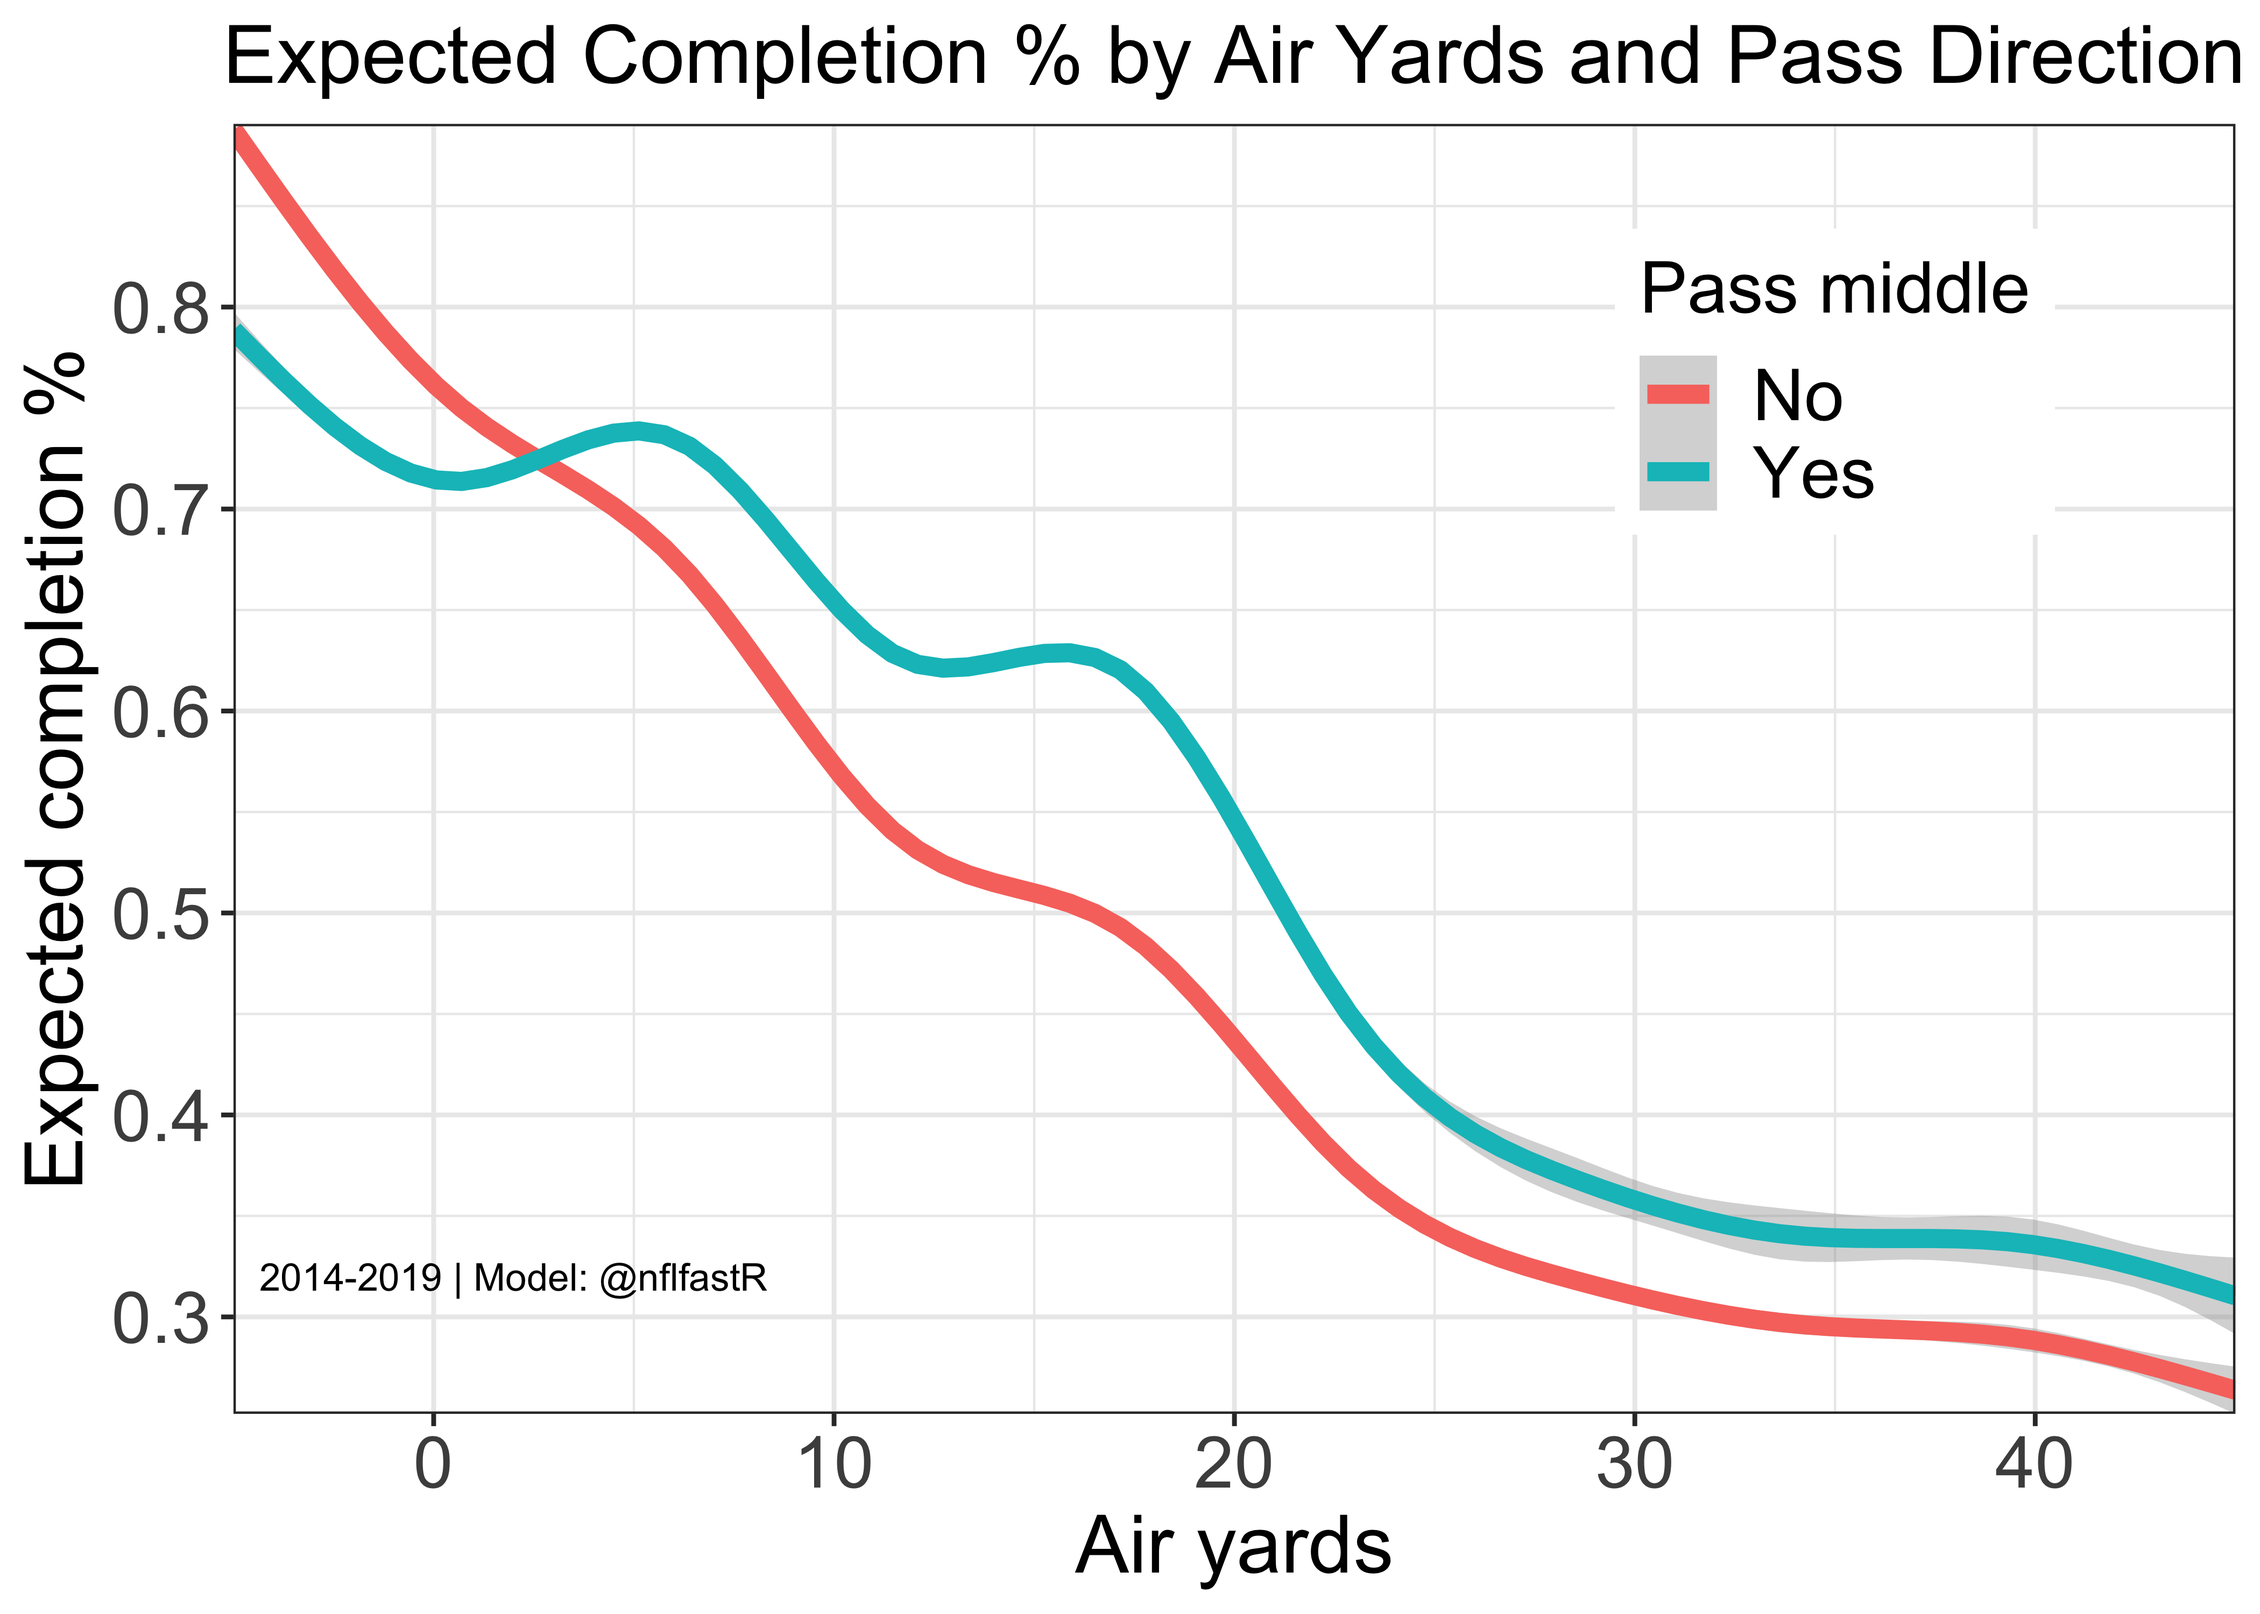
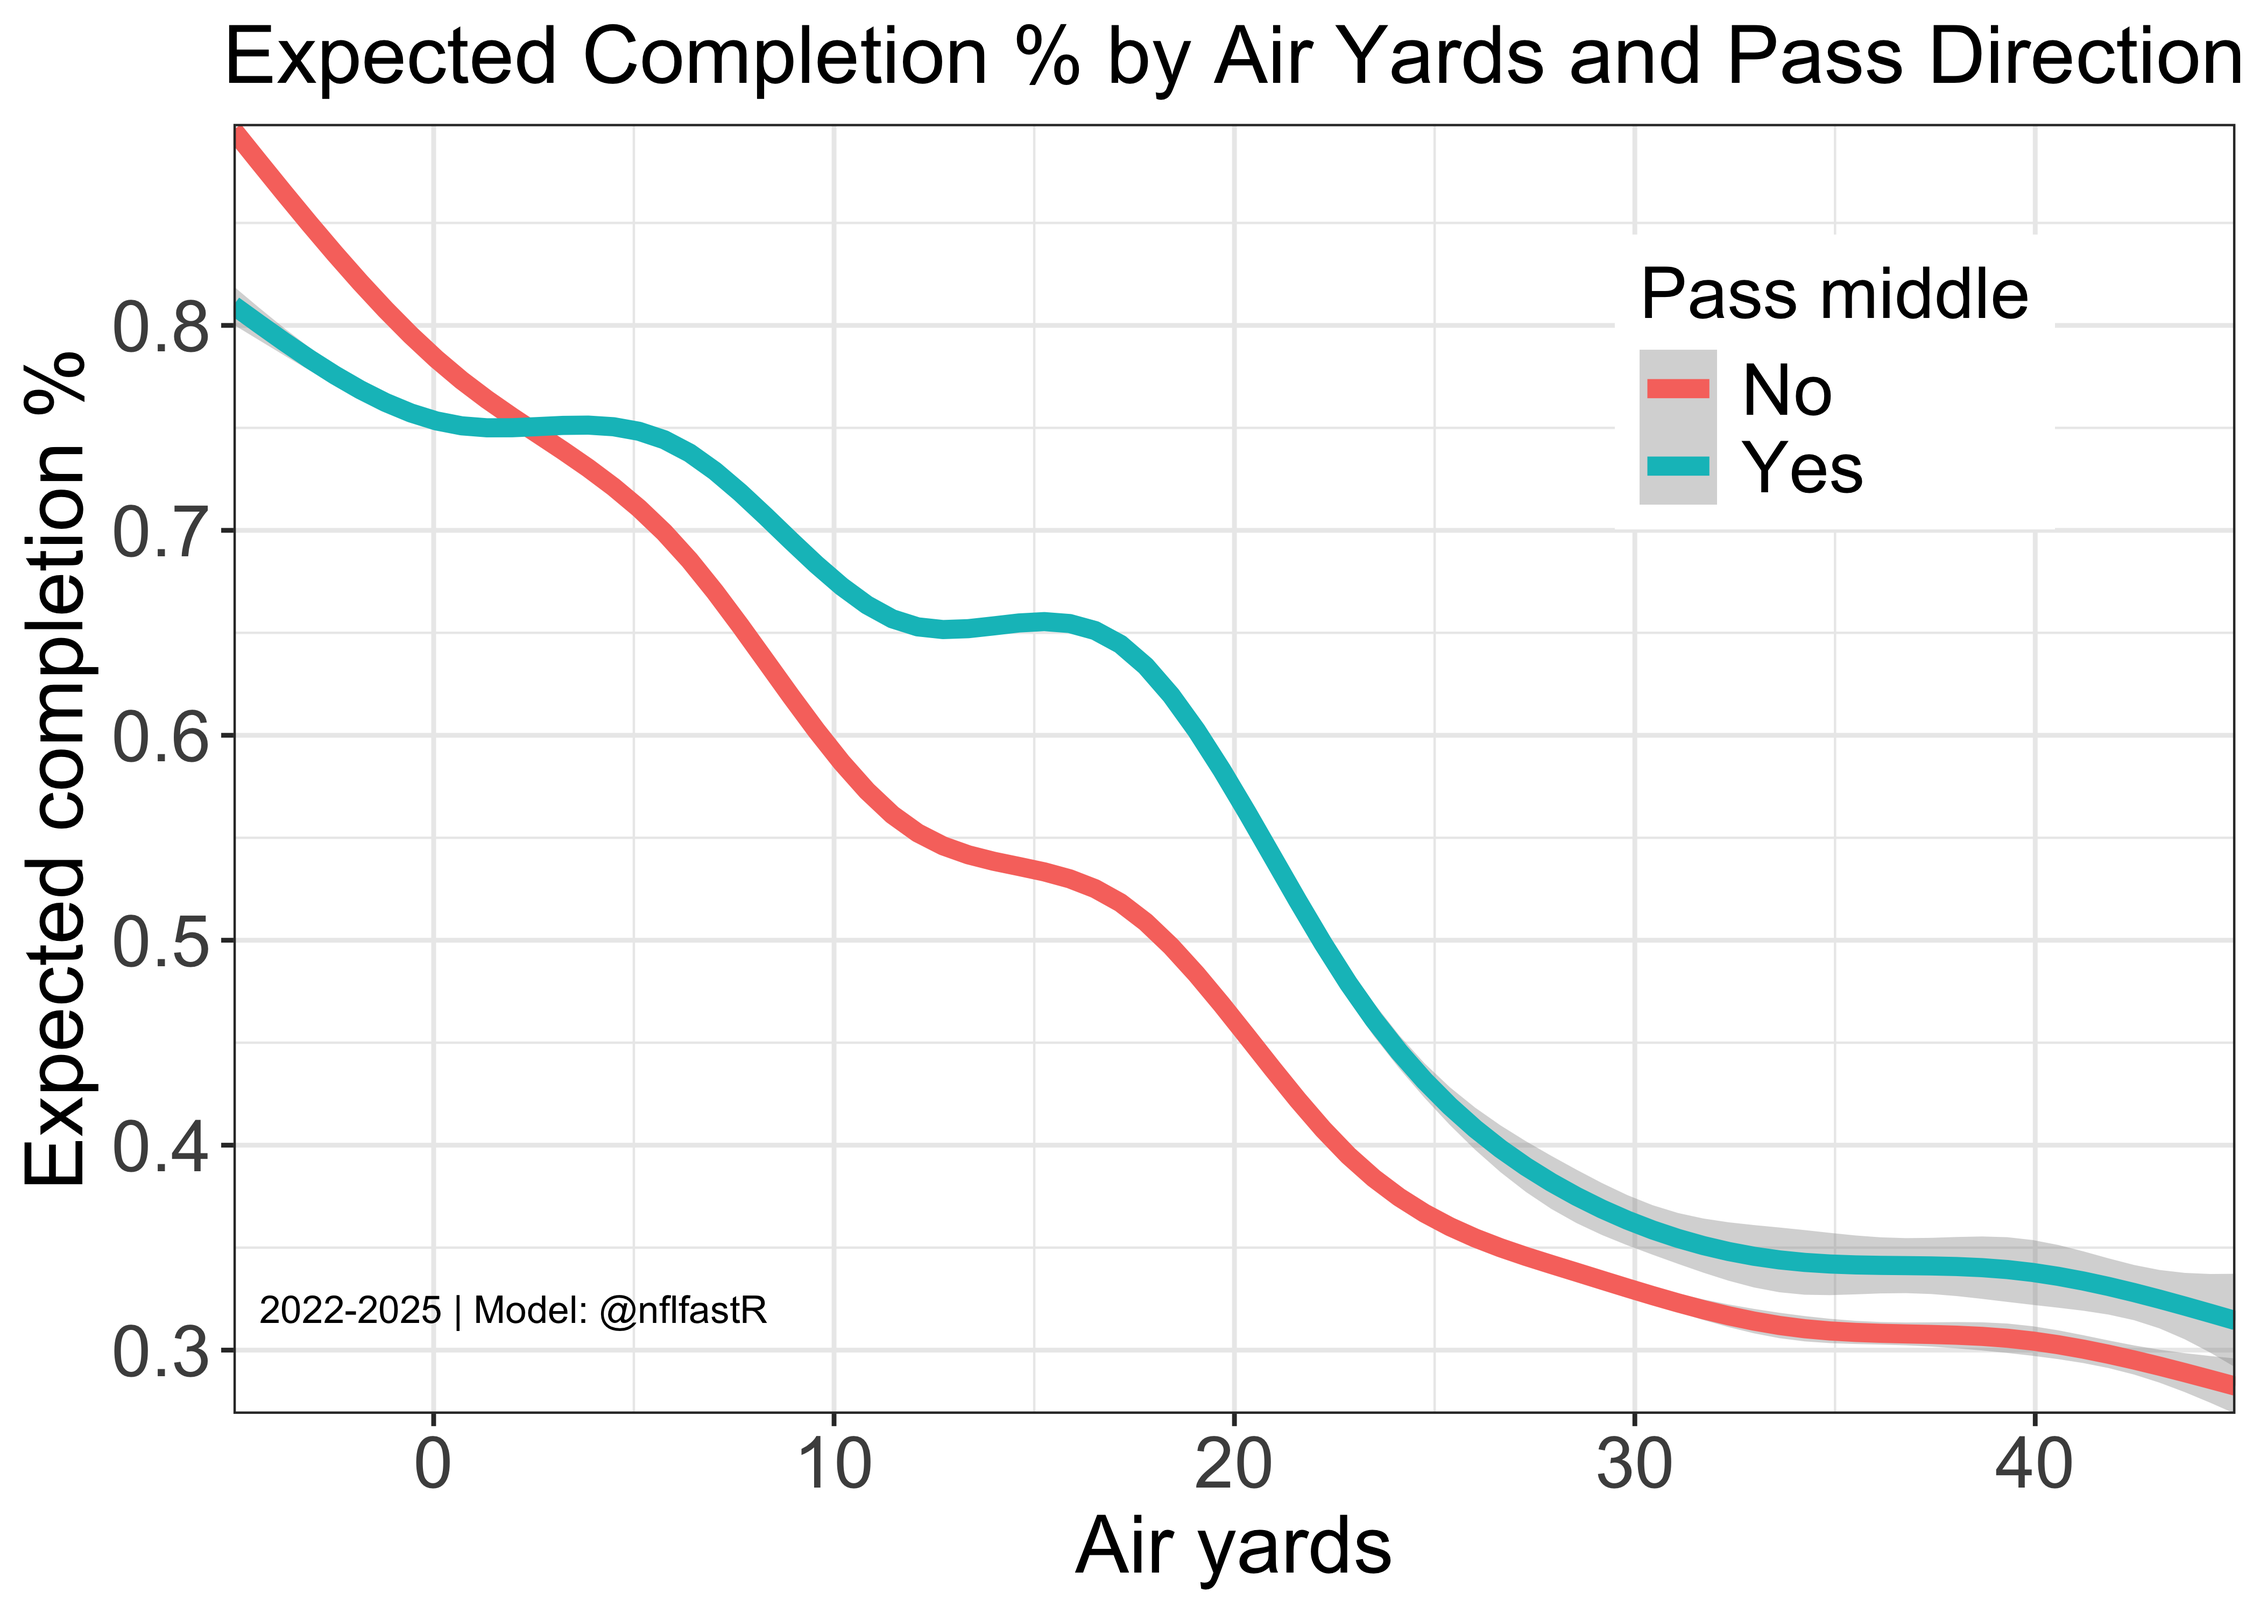
Update the EP and CP model images in the README for the new EP model
- Rebuild `man/figures/readme-epa-model-1.png` and `man/figures/readme-cp-model-1.png` from the pbp release that was rebuilt with the new EP model (#644), using the seasons 2022 to 2025 (the newest era of the model) instead of 2014 to 2019.
- Say in the models section that the EP model was rebuilt since the Open Source Football post and link to the comments of `data-raw/ep_model.R` and `R/helper_ep_model.R`.
- Replace the deprecated `size` of `geom_smooth()` with `linewidth` and `legend.position = c(...)` with `legend.position.inside`.

Fixes #650.

Changed region(s): [[0.0312, 0.124, 0.9981, 0.868], [0.9045, 0.31, 0.9981, 0.341]]

diff --git a/README.md b/README.md
@@ -37,7 +37,8 @@ data. `nflfastR` expands upon the features of nflscrapR:
   very quick access
 - Features models for Expected Points, Win Probability, Completion
   Probability, and Yards After the Catch (see section below)
-- Includes a function `update_pbp_db()` that creates and updates a database
+- Includes a function `update_pbp_db()` that creates and updates a
+  database
 
 We owe a debt of gratitude to the original
 [`nflscrapR`](https://github.com/maksimhorowitz/nflscrapR) team, Maksim
@@ -100,8 +101,15 @@ occurred in the postseason.
 Completion Probability, and Expected Yards After the Catch. To read
 about the models, please see [this post on Open Source
 Football](https://opensourcefootball.com/posts/2020-09-28-nflfastr-ep-wp-and-cp-models/).
-For a more detailed description of the motivation for Expected Points
-models, we highly recommend this paper [from the nflscrapR team located
+The Expected Points model has been rebuilt since that post: it is now a
+smooth spline model of the value of a game state for an average team,
+with an era for the seasons since 2022. The comments at the top of
+[`data-raw/ep_model.R`](https://github.com/nflverse/nflfastR/blob/master/data-raw/ep_model.R)
+and
+[`R/helper_ep_model.R`](https://github.com/nflverse/nflfastR/blob/master/R/helper_ep_model.R)
+describe how it is built. For a more detailed description of the
+motivation for Expected Points models, we highly recommend this paper
+[from the nflscrapR team located
 here](https://arxiv.org/pdf/1802.00998).
 
 Here is a visualization of the Expected Points model by down and
